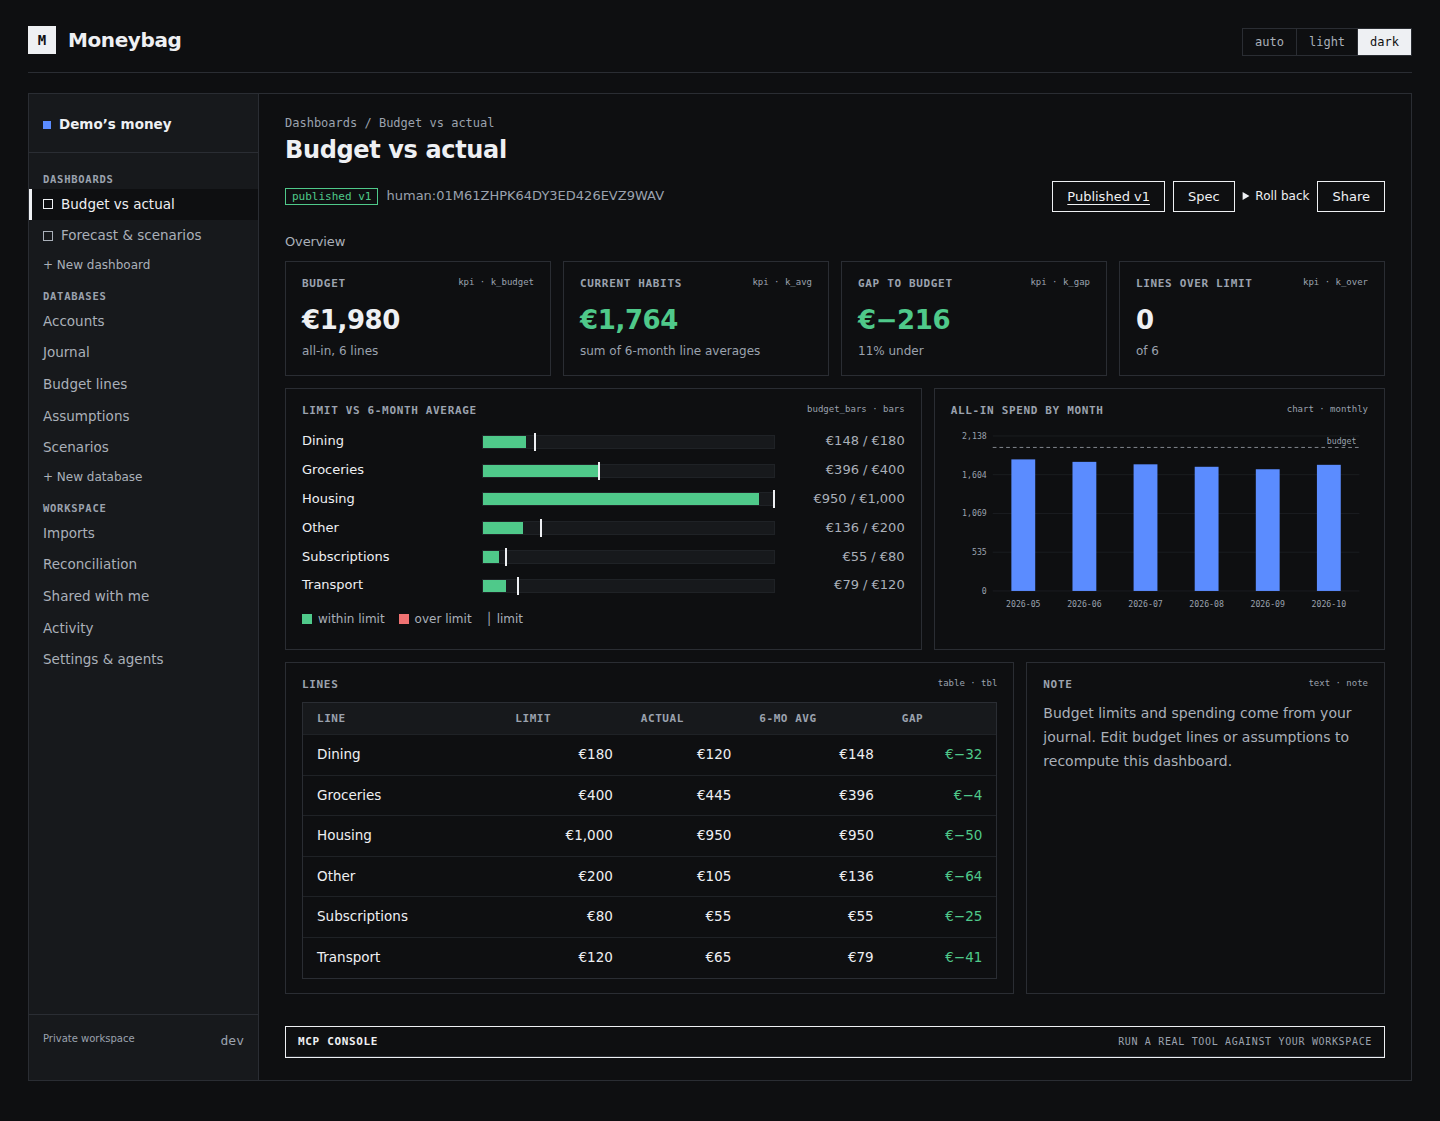
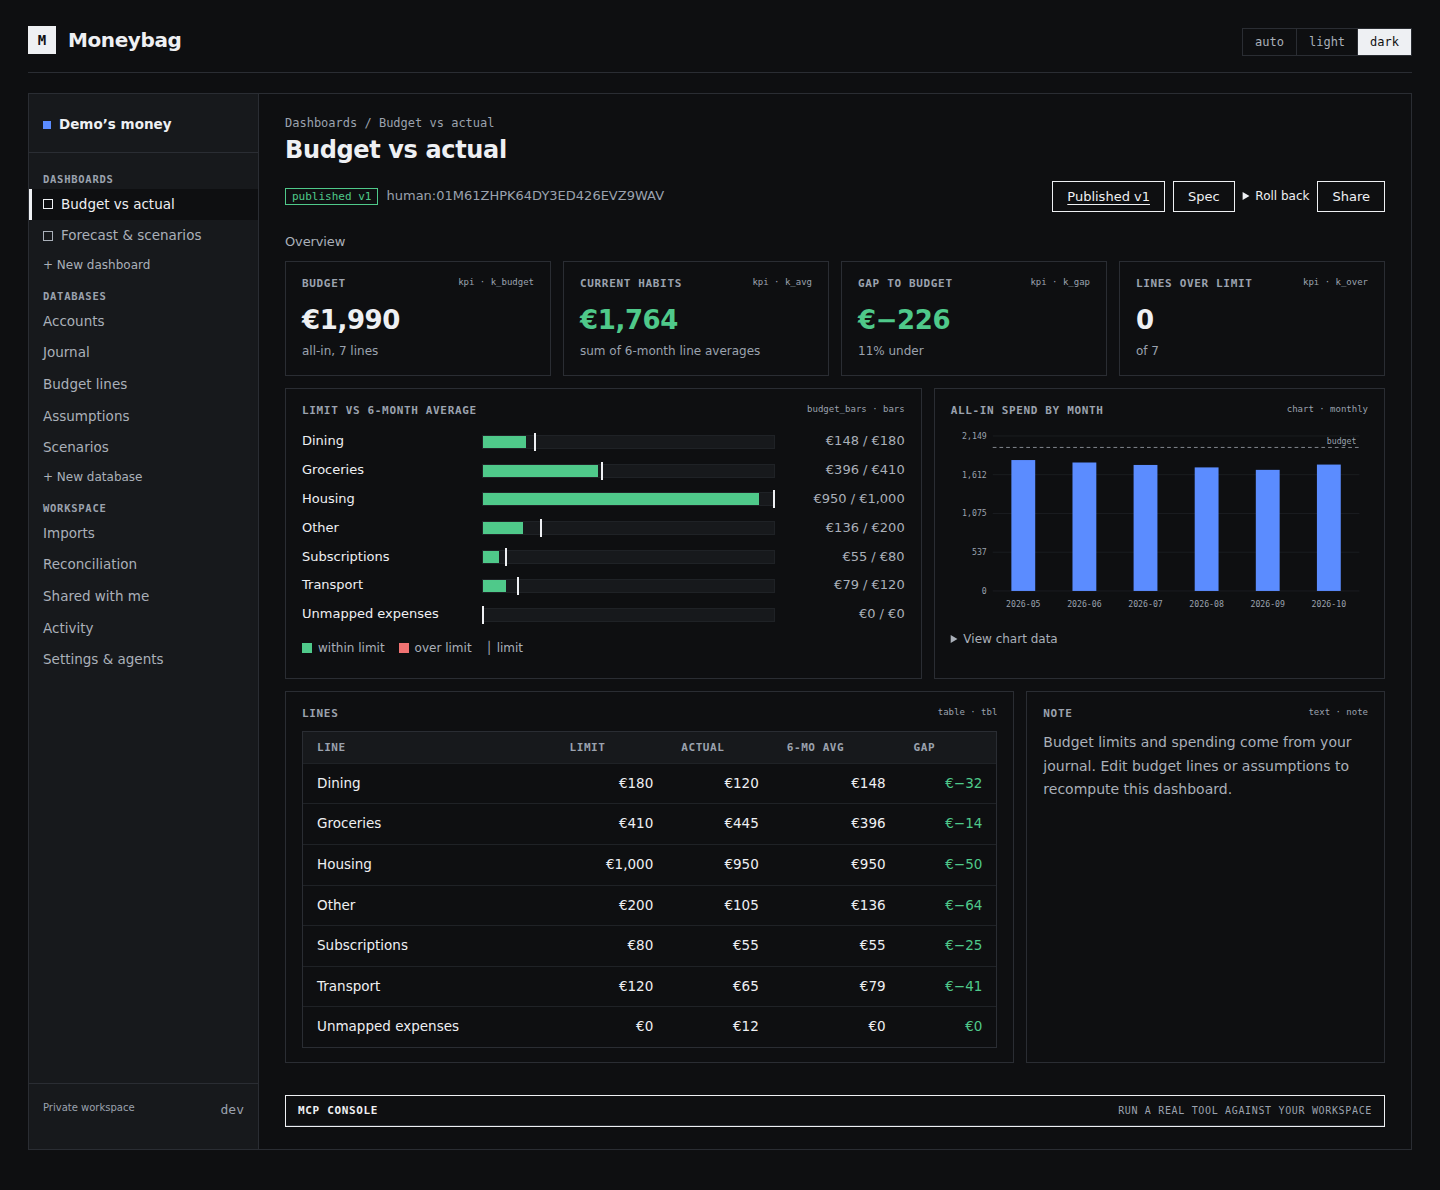
Make chart data and scrolling tables accessible on mobile and keyboard

diff --git a/backend/cmd/api/handlers/web/style.css b/backend/cmd/api/handlers/web/style.css
@@ -131,7 +131,12 @@ input.in:focus,textarea.in:focus{border-color:var(--focus)}
 .bbar .tr i.over{background:var(--neg)}
 .bbar .tr b{position:absolute;top:-3px;bottom:-3px;width:2px;background:var(--ink)}
 .bbar .v{text-align:right;font-variant-numeric:tabular-nums;color:var(--text2)}
+.chart{overflow-x:auto}
 .chart svg{display:block;width:100%;height:auto}
+.chart-data{margin-top:12px;font-size:12px}
+.chart-data summary{cursor:pointer;color:var(--text2);padding:4px 0}
+.chart-data caption{text-align:left;padding:8px 12px;color:var(--text2)}
+@media(max-width:620px){.chart svg{min-width:560px}}
 .chart text{font:11px var(--mono);fill:var(--text3)}
 .legend{display:flex;flex-wrap:wrap;gap:4px 14px;font-size:12px;color:var(--text2);margin-bottom:6px}
 .legend i{display:inline-block;width:10px;height:10px;margin-right:6px;vertical-align:-1px}

diff --git a/backend/internal/components/dashboard/render.go b/backend/internal/components/dashboard/render.go
@@ -148,7 +148,7 @@ func (x *execution) render(c Component) (string, any, error) {
 			return "", nil, fmt.Errorf("table needs 1..30 columns")
 		}
 		var b strings.Builder
-		b.WriteString(`<div class="tbl"><table><thead><tr>`)
+		b.WriteString(`<div class="tbl" tabindex="0" role="region" aria-label="` + escape(c.Title+" table") + `"><table><thead><tr>`)
 		for _, col := range c.Columns {
 			b.WriteString(`<th>` + escape(col.Label) + `</th>`)
 		}
@@ -309,7 +309,7 @@ func (x *execution) chart(c Component) (string, any, error) {
 		colorIndex[s] = i
 	}
 	var b strings.Builder
-	b.WriteString(`<div class="chart"><svg viewBox="0 0 560 250" role="img" aria-label="` + escape(c.Title) + `"><title>` + escape(c.Title) + `</title>`)
+	b.WriteString(`<div class="chart" tabindex="0" role="region" aria-label="` + escape(c.Title+" chart; scroll to see all values") + `"><svg viewBox="0 0 560 250" role="img" aria-label="` + escape(c.Title) + `"><title>` + escape(c.Title) + `</title>`)
 	if c.Mark == "donut" {
 		total := 0.0
 		for _, p := range points {
@@ -331,6 +331,7 @@ func (x *execution) chart(c Component) (string, any, error) {
 			offset += fraction
 		}
 		b.WriteString(`</svg></div>`)
+		b.WriteString(chartData(c.Title, points, nil, ""))
 		return b.String(), points, nil
 	}
 	low, high := 0.0, 1.0
@@ -455,5 +456,28 @@ func (x *execution) chart(c Component) (string, any, error) {
 		b.WriteString(`</div>`)
 	}
 	b.WriteString(`</div>`)
+	var reference *float64
+	if hasRule {
+		reference = &rule
+	}
+	b.WriteString(chartData(c.Title, points, reference, ruleLabel))
 	return b.String(), points, nil
+}
+
+func chartData(title string, points []chartPoint, reference *float64, label string) string {
+	var b strings.Builder
+	b.WriteString(`<details class="chart-data"><summary>View chart data</summary><div class="tbl" tabindex="0" role="region" aria-label="` + escape(title+" chart data") + `"><table><caption>` + escape(title) + `</caption><thead><tr><th scope="col">Series</th><th scope="col">Category</th><th scope="col">Value</th></tr></thead><tbody>`)
+	for _, p := range points {
+		series := p.Series
+		if series == "" {
+			series = "Value"
+		}
+		b.WriteString(`<tr><th scope="row">` + escape(series) + `</th><td>` + escape(p.X) + `</td><td class="r">` + escape(strconv.FormatFloat(p.Y, 'f', -1, 64)) + `</td></tr>`)
+	}
+	b.WriteString(`</tbody>`)
+	if reference != nil {
+		b.WriteString(`<tfoot><tr><th colspan="2" scope="row">Reference: ` + escape(label) + `</th><td class="r">` + escape(strconv.FormatFloat(*reference, 'f', -1, 64)) + `</td></tr></tfoot>`)
+	}
+	b.WriteString(`</table></div></details>`)
+	return b.String()
 }

diff --git a/backend/internal/components/dashboard/engine_test.go b/backend/internal/components/dashboard/engine_test.go
@@ -46,9 +46,24 @@ func TestAllChartMarksAndTextEscape(t *testing.T) {
 	for _, mark := range []string{"bar", "line", "area", "stack", "donut"} {
 		spec := Spec{Data: map[string]Query{"rows": {From: "journal"}}, Pages: []Page{{ID: "main", Layout: []Row{{Cols: []Placement{{12, "chart"}}}}}}, Components: []Component{{ID: "chart", Type: "chart", Mark: mark, Rows: "rows", Encoding: &Encoding{X: Axis{Field: "name"}, Y: Axis{Field: "amount"}}}}}
 		out, e := engine.Execute(context.Background(), principal.Principal{}, spec)
-		if e != nil || !out.Validation.OK || !strings.Contains(out.HTML, "<svg") {
+		if e != nil || !out.Validation.OK || !strings.Contains(out.HTML, "<svg") || !strings.Contains(out.HTML, "View chart data") || !strings.Contains(out.HTML, `tabindex="0" role="region"`) {
 			b, _ := json.Marshal(out.Validation)
 			t.Fatalf("%s: %s %v", mark, b, e)
+		}
+	}
+}
+
+func TestChartDataExposesExactValuesAndReference(t *testing.T) {
+	expr, _ := expressions.New()
+	engine := Engine{Expr: expr, Reader: fixtureReader{}}
+	spec := Spec{Data: map[string]Query{"rows": {From: "journal"}}, Pages: []Page{{ID: "main", Layout: []Row{{Cols: []Placement{{12, "chart"}}}}}}, Components: []Component{{ID: "chart", Type: "chart", Title: "Monthly values", Mark: "bar", Rows: "rows", Encoding: &Encoding{X: Axis{Field: "name"}, Y: Axis{Field: "amount"}, Color: &Axis{Field: "group"}}, Rule: &Rule{Y: "25.5", Label: "'Budget'"}}}}
+	result, err := engine.Execute(context.Background(), principal.Principal{}, spec)
+	if err != nil || !result.Validation.OK {
+		t.Fatal(result.Validation, err)
+	}
+	for _, want := range []string{`<th scope="row">A</th>`, `<td class="r">20</td>`, `Reference: Budget`, `25.5`, `&lt;script&gt;bad&lt;/script&gt;`} {
+		if !strings.Contains(result.HTML, want) {
+			t.Fatalf("missing accessible chart data %q", want)
 		}
 	}
 }
